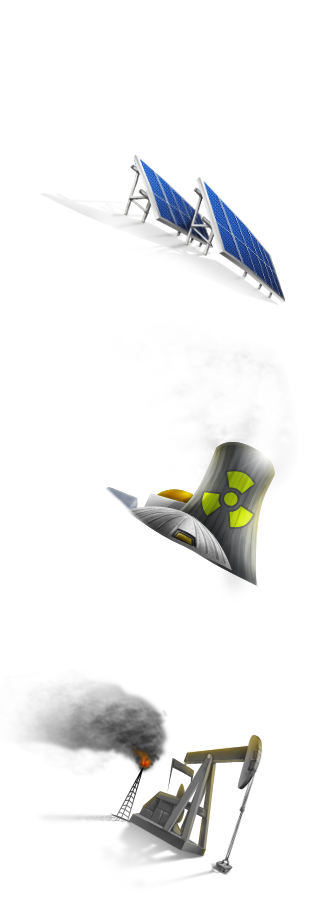
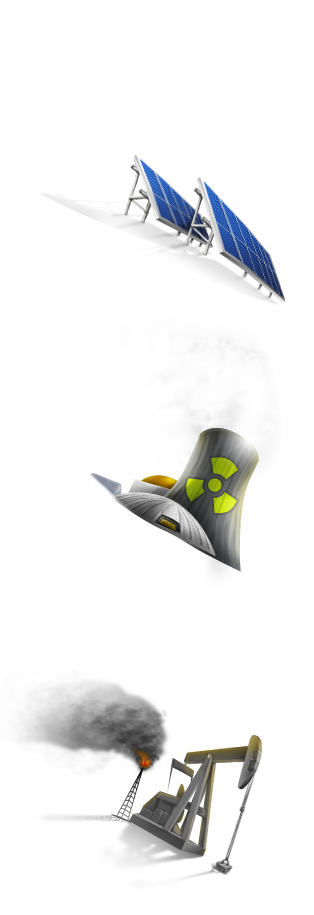
Add the custom behaviour for the energy sources prop.

Changed region(s): [[0.2866, 0.459, 0.8885, 0.6426]]

diff --git a/app/assets/stylesheets/scenes/_modern.sass b/app/assets/stylesheets/scenes/_modern.sass
@@ -259,7 +259,16 @@
 
       .energy-sources
         @include modern-prop-dyn(energy-sources, 314px, 305px, 905px, -55px)
-        z-index: 5
+
+        .icon
+          z-index: 5
+
+        .icon.nuclear
+          background-position: left -305px
+          z-index: 3
+
+        .icon.oil
+          background-position: left -610px
 
       // Solar water heater -- appears atop the eco building.
 
